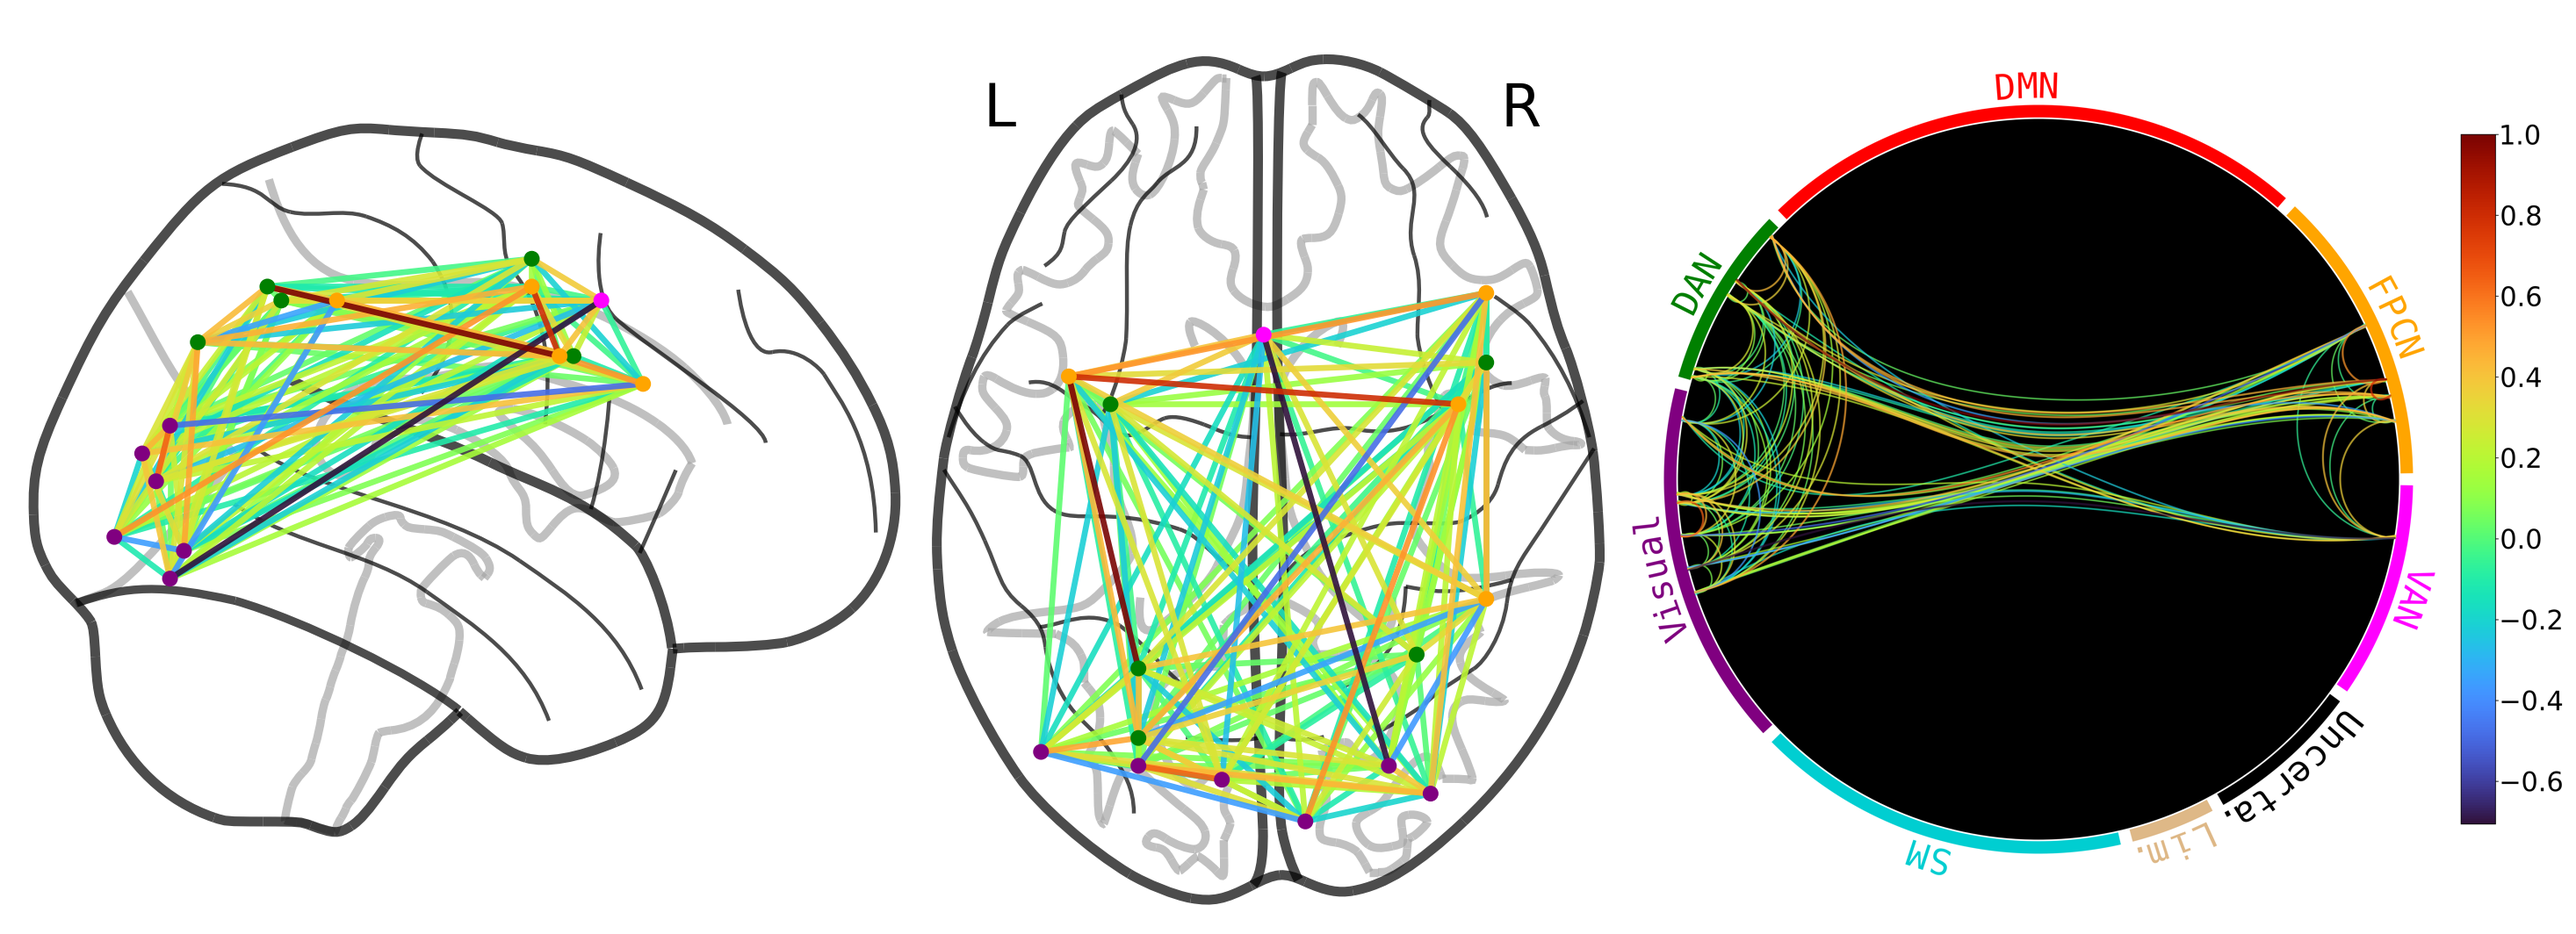
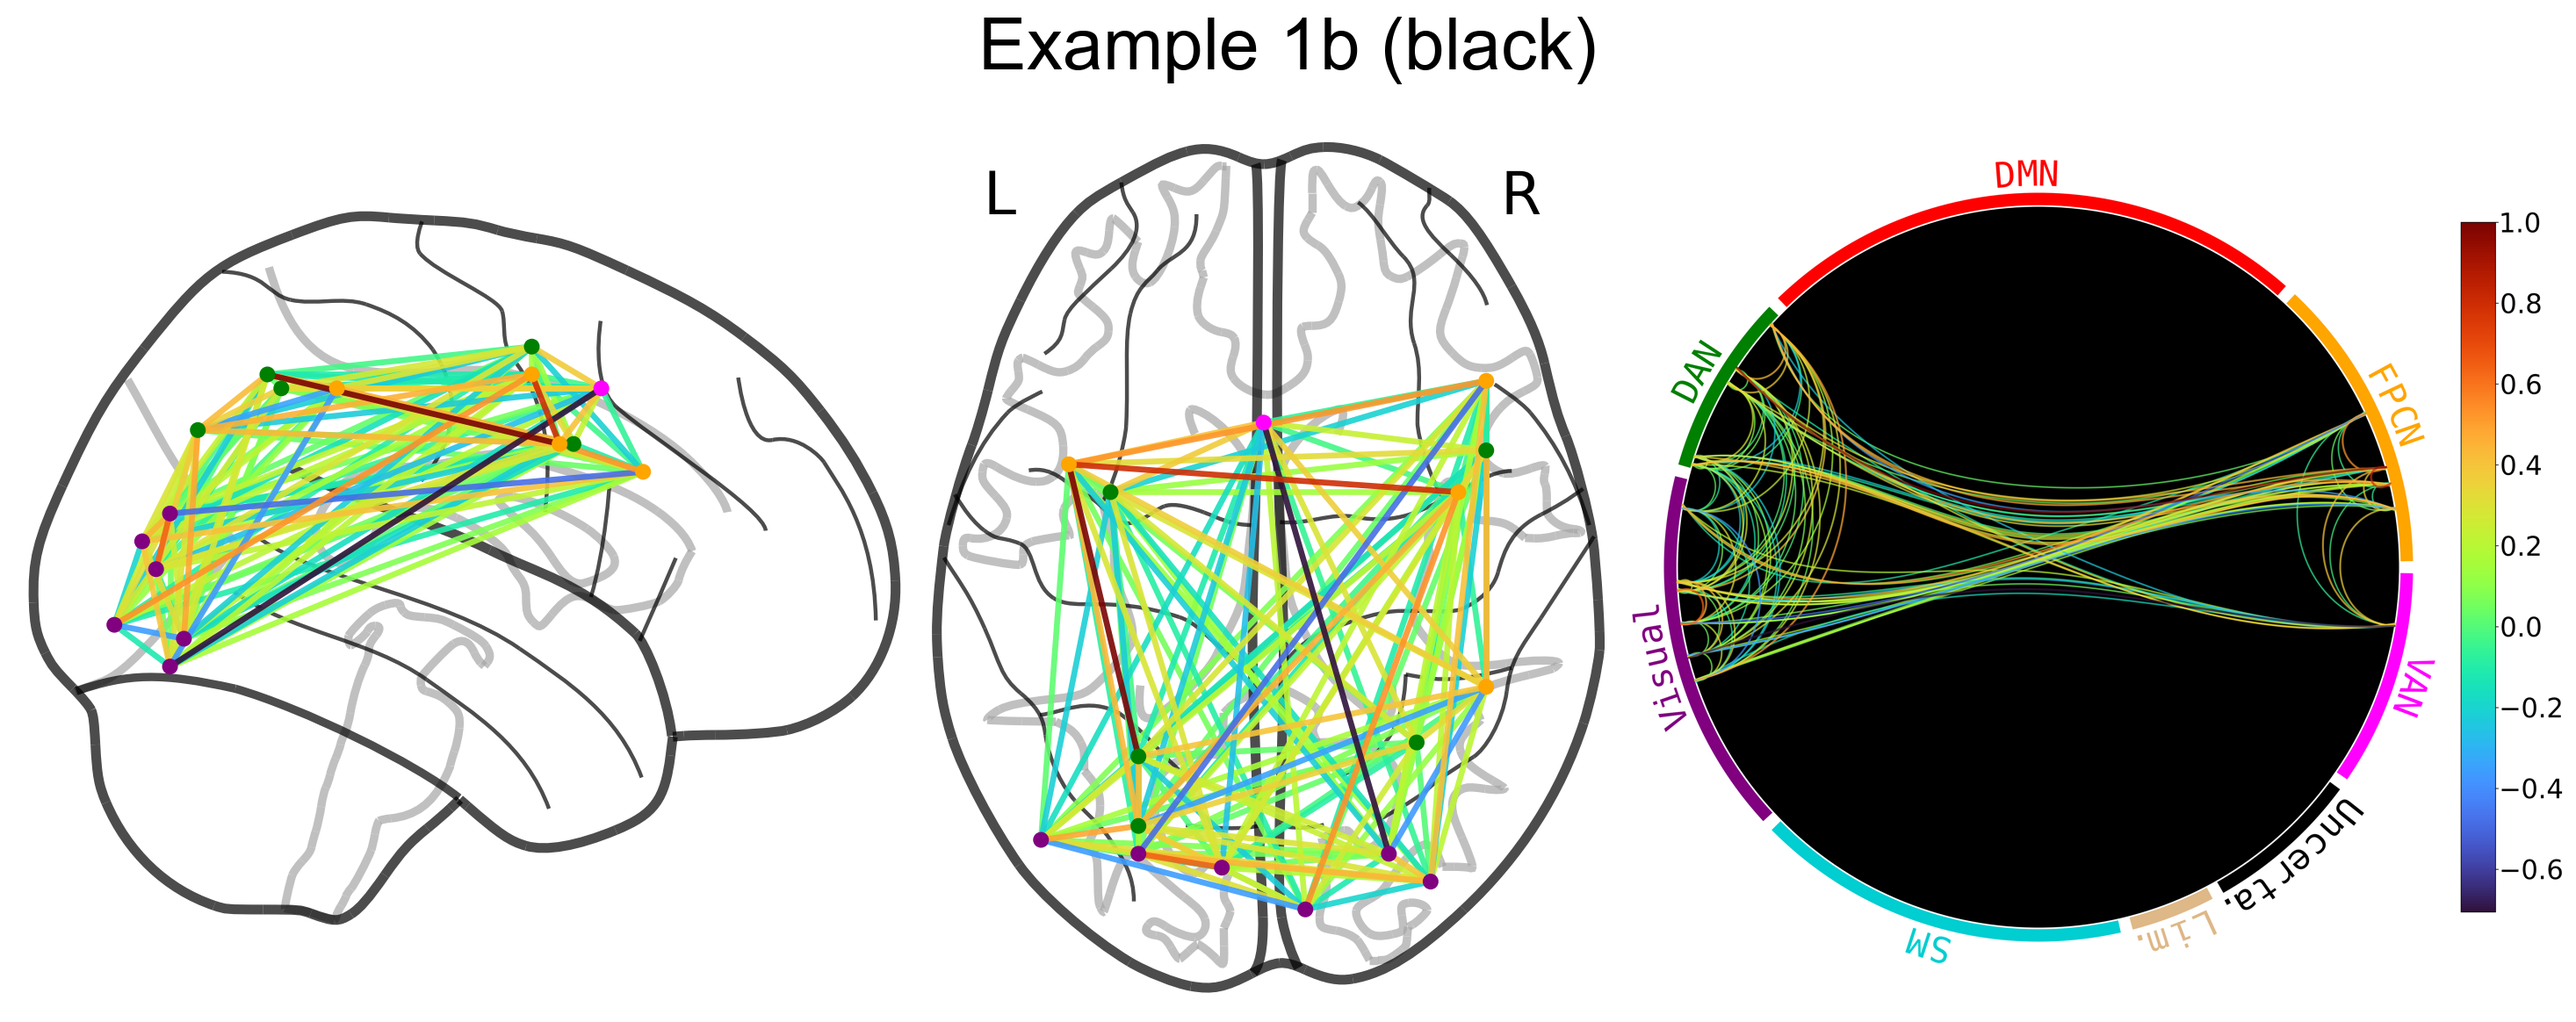
updated things slightly and gave the examples titles using the title feature

Changed region(s): [[0.0, 0.0, 0.9928, 0.9615], [0.9308, 0.8064, 1.0, 0.8994], [0.9618, 0.7444, 1.0, 0.7754]]

diff --git a/example/example.py b/example/example.py
@@ -2,7 +2,6 @@ from nichord.chord import plot_chord
 from nichord.glassbrain import plot_glassbrain
 from nichord.combine import combine_imgs, plot_and_combine
 from nichord.coord_labeler import get_idx_to_label
-import matplotlib.pyplot as plt
 
 
 # Example 0 described in README.md
@@ -152,7 +151,7 @@ if __name__ == '__main__':
     plot_and_combine(dir_out, fn, idx_to_label, edges,
                      edge_weights=edge_weights, coords=power_coords,
                      network_order=network_order, network_colors=network_colors,
-                     chord_kwargs=chord_kwargs)
+                     chord_kwargs=chord_kwargs, title='Example 1b (black)')
 
     fn = r'ex1_count.png'
     chord_kwargs = {'plot_count': True}
@@ -164,7 +163,8 @@ if __name__ == '__main__':
     plot_and_combine(dir_out, fn, idx_to_label, edges,
                      edge_weights=edge_weights, coords=power_coords,
                      network_order=network_order, network_colors=network_colors,
-                     chord_kwargs=chord_kwargs, glass_kwargs=glass_kwargs)
+                     chord_kwargs=chord_kwargs, glass_kwargs=glass_kwargs,
+                     title='Example 1c (count)')
 
 
     # example 2 ---------------------
@@ -180,4 +180,5 @@ if __name__ == '__main__':
     plot_and_combine(dir_out, fn, idx_to_label, edges,
                      edge_weights=edge_weights, coords=power_coords,
                      network_order=network_order, network_colors=network_colors,
-                     chord_kwargs=chord_kwargs, glass_kwargs=glass_kwargs)
+                     chord_kwargs=chord_kwargs, glass_kwargs=glass_kwargs,
+                     title='Example 2')

diff --git a/nichord/combine.py b/nichord/combine.py
@@ -24,7 +24,6 @@ def combine_imgs(fp_glass: str, fp_chord: str, fp_combined: str,
     :param chord_mult: specifies the size of the chord diagram relative to
         the glass brain. Probably shouldn't change.
     """
-    from PIL import Image
 
     image_glass = Image.open(fp_glass)
     image_chord = Image.open(fp_chord)
@@ -73,6 +72,7 @@ def plot_and_combine(dir_out: str,
                      network_colors: Union[dict, None] = None,
                      chord_kwargs: Union[None, dict] = None,
                      glass_kwargs: Union[None, dict] = None,
+                     title: Union[None, str] = None
                      ) -> None:
     name, file_ext = os.path.splitext(fn)
     if file_ext == '':
@@ -110,4 +110,4 @@ def plot_and_combine(dir_out: str,
     plot_glassbrain(idx_to_label, edges, edge_weights, fp_glass,
                     coords, **glass_kwargs)
 
-    combine_imgs(fp_glass, fp_chord, fp_combined)
+    combine_imgs(fp_glass, fp_chord, fp_combined, title=title)

diff --git a/setup.py b/setup.py
@@ -20,13 +20,14 @@ setup(
     description="Creates chord diagrams for connectivity/graph data",
     long_description=desc,
     long_description_content_type="text/markdown",
-    version="v0.0.6",
+    version="v0.1.0",
     packages=["nichord"],
     python_requires=">=3.5",
     url="https://github.com/paulcbogdan/NiChord",
     author="paulcbogdan",
     author_email="paulcbogdan@gmail.com",
-    install_requires=["nilearn", "numpy", "matplotlib", "scipy", "atlasreader"],
+    install_requires=["nilearn", "numpy", "matplotlib", "scipy", "atlasreader",
+                      "pillow"],
     keywords=["plotting", "fmri", "plotting", "chord"],
     license="MIT"
 )

diff --git a/nichord/chord.py b/nichord/chord.py
@@ -393,7 +393,7 @@ def plot_arcs(edges: list, idx_to_label: dict, network_low_high: dict,
               plot_count: bool = True,
               plot_abs_sum: bool = False,
               normalize_thickness: bool = False,
-              max_linewidth: Union[float, int]=28,
+              max_linewidth: Union[float, int] = 28,
               sub_min_thickness: bool = False
               ) -> (float, float):
     """

diff --git a/README.md b/README.md
@@ -130,7 +130,9 @@ function.
 ### Plotting everything at once
 
 You can also use `combine.plot_and_combine` to do `plot_chord`, 
-`plot_glassbrain`, and `combine_image` with a single function:
+`plot_glassbrain`, and `combine_image` with a single function. 
+`plot_and_combine` will create (if needed) and use directories `chord` and 
+`glass` wherever you specify the combined image to be made with `dir_out`.
 
 ```
     dir_out = 'example'
@@ -143,7 +145,9 @@ You can also use `combine.plot_and_combine` to do `plot_chord`,
 
 You can pass `plot_and_combine` some `chord_kwargs=` or `glass_kwargs=` to 
 adjust the appearance of the chord diagram or glass brain, like above. These two
-examples here do this and also show new features added in November 2022:
+examples here do this and also show new features added in November 2022. The
+one below shows how you can add a title and give the chord diagram a black 
+background:
 ```
     dir_out = 'example'
     fn = r'ex1_black_BG.png'
@@ -151,7 +155,7 @@ examples here do this and also show new features added in November 2022:
     plot_and_combine(dir_out, fn, idx_to_label, edges,
                      edge_weights=edge_weights, coords=power_coords,
                      network_order=network_order, network_colors=network_colors,
-                     chord_kwargs=chord_kwargs)
+                     chord_kwargs=chord_kwargs, title='Example 1b (black)')
 ```
 <p align="center">
   <img src="example\ex1_black_BG.png" />
@@ -171,7 +175,8 @@ plotted in sizes specified.
     plot_and_combine(dir_out, fn, idx_to_label, edges,
                      edge_weights=edge_weights, coords=power_coords,
                      network_order=network_order, network_colors=network_colors,
-                     chord_kwargs=chord_kwargs, glass_kwargs=glass_kwargs)
+                     chord_kwargs=chord_kwargs, glass_kwargs=glass_kwargs,
+                     title='Example 1c (count)')
 ```
 
 <p align="center">
